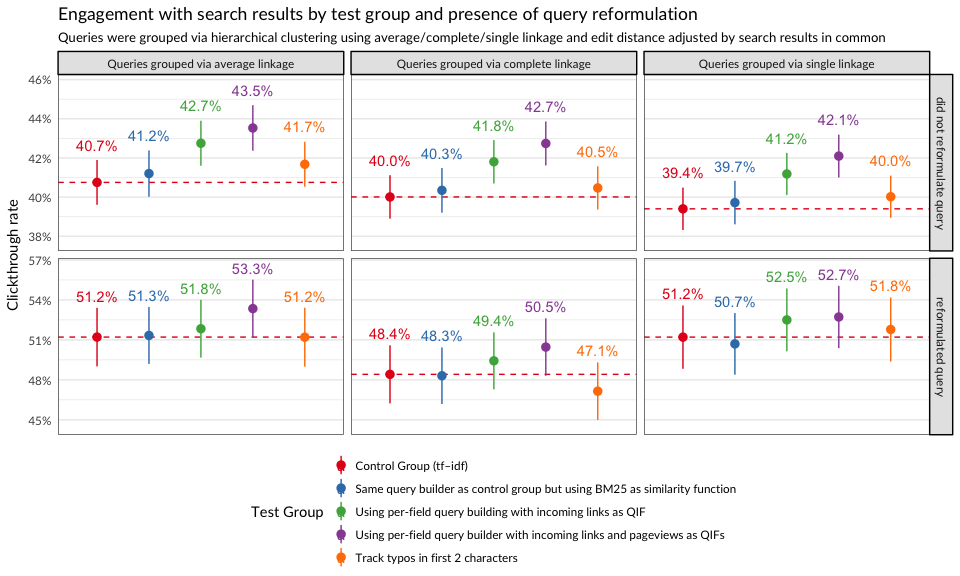
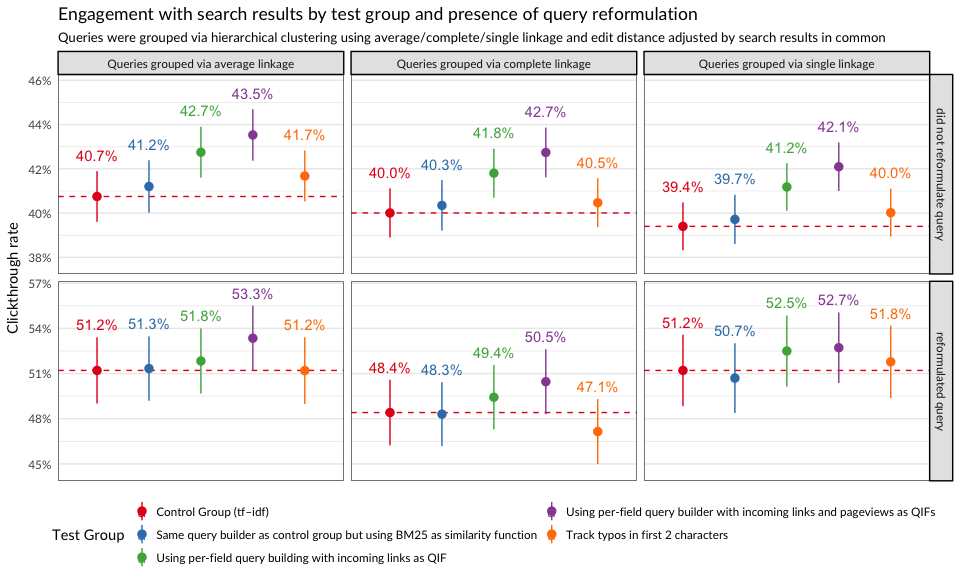
Almost first draft

diff --git a/docs/index.html b/docs/index.html
@@ -16,7 +16,7 @@
 <meta name="author" content="Deb Tankersley (Product Management)" />
 <meta name="author" content="Chelsy Xie (Review)" />
 
-<meta name="date" content="2016-09-27" />
+<meta name="date" content="2016-09-29" />
 
 <title>A/B Test of BM25 Search Ranking</title>
 
@@ -273,14 +273,14 @@ div.tocify {
 
 
 <h1 class="title toc-ignore">A/B Test of BM25 Search Ranking</h1>
-<h3 class="subtitle"><em>Pre-first Draft</em></h3>
+<h3 class="subtitle"><em>Almost First Draft</em></h3>
 <h4 class="author"><em><a href = 'https://meta.wikimedia.org/wiki/User:EBernhardson_(WMF)'>Erik Bernhardson</a> (Engineering)</em></h4>
 <h4 class="author"><em><a href = 'https://www.mediawiki.org/wiki/User:DCausse_(WMF)'>David Causse</a> (Engineering)</em></h4>
 <h4 class="author"><em><a href = 'https://meta.wikimedia.org/wiki/User:TJones_(WMF)'>Trey Jones</a> (Engineering &amp; Review)</em></h4>
 <h4 class="author"><em><a href = 'https://meta.wikimedia.org/wiki/User:MPopov_(WMF)'>Mikhail Popov</a> (Analysis &amp; Report)</em></h4>
 <h4 class="author"><em><a href = 'https://meta.wikimedia.org/wiki/User:DTankersley_(WMF)'>Deb Tankersley</a> (Product Management)</em></h4>
 <h4 class="author"><em><a href = 'https://meta.wikimedia.org/wiki/User:CXie_(WMF)'>Chelsy Xie</a> (Review)</em></h4>
-<h4 class="date"><em>27 September 2016</em></h4>
+<h4 class="date"><em>29 September 2016</em></h4>
 
 </div>
 
@@ -318,11 +318,32 @@ $(function() {
 <span class="co"># extrafont::font_import(&quot;~/Downloads/Lato2OFL&quot;)</span></code></pre></div>
 <div id="executive-summary" class="section level2">
 <h2>Executive Summary</h2>
-<p>…</p>
+<p>In order to improve the relevancy of search results, Discovery’s Search team has decided to test a new document ranking method called BM25, which would replace the term frequency–inverse document frequency (tf–idf) method that is currently used. We saw the following results from our analysis:</p>
+<dl>
+<dt>Same query builder as control group but using BM25 as similarity function</dt>
+<dd>For searches made by users in this group, we use the same query builder as we use for the control group but we switched the similarity function to BM25 and employ a weighted sum for the incoming links query independant factor (QIF). Users in this group were less likely to click on the 1st search result and instead more likely to click on the second search result. They were also more likely to reformulate their query. With regards to zero results rate (ZRR), PaulScore, and engagement, users in this group were very similar to users in the control group.
+</dd>
+<dt>Using per-field query building with incoming links as QIF</dt>
+<dd>For searches made by users in this group, we use BM25 similarity and switch to a per-field query builder using only incoming links as a query independant factor. This group had the second-highest PaulScores and engagement, both in searches where the user reformulated their query and in searches without query reformulation. Users in this group were more likely to click on the first search result than users in the control group.
+</dd>
+<dt>Using per-field query builder with incoming links and pageviews as QIFs</dt>
+<dd>Similar to the group described above but we added pageviews as an additional query independent factor for searches made by users in this group. This group had the highest PaulScores and engagement, both in searches where the user reformulated their query and in searches without query reformulation. Users in this group were a lot more likely to click on the first search result than users in the control group.
+</dd>
+<dt>Track typos in first 2 characters</dt>
+<dd>Similar to the group described above (<em>using per-field query builder with incoming links and pageviews as QIFs</em>), but with an additional field to track typos in the first two characters. This group had the lowest ZRR, and its ZRR was statistically significantly smaller than the control group’s ZRR. This group also had the smallest proportion of searches where the user reformulated their query. Users in this group were a lot more likely to click on the first search result than users in the control group.
+</dd>
+</dl>
+<p>We recommend switching to BM25 ranking with incoming links (and possibly pageviews) as query-independent factors, as this configuration appears to give users results that are more relevant and that they engage with more (especially the first search result).</p>
 </div>
 <div id="background" class="section level2">
 <h2>Background</h2>
-<p>Lorem ipsum dolor sit amet, consectetur adipiscing elit. Etiam interdum luctus velit ac euismod. Donec molestie ipsum at lorem pharetra porttitor. Sed nec finibus nisi, convallis laoreet leo. Curabitur tempus neque porttitor, pulvinar nisi ac, pulvinar augue. Quisque ac venenatis purus. In mollis ligula eget velit laoreet rhoncus. Sed eget nisi tempor quam rhoncus tempus. Nullam eleifend justo tellus, eget tempor lectus sodales id. Quisque quis lorem pharetra, rhoncus libero eget, rhoncus nisl. Duis massa dolor, luctus nec purus sed, euismod condimentum neque. Maecenas laoreet mauris at dui consequat gravida. Curabitur ut consequat lacus. In libero sem, dignissim ac ultricies eget, ornare eu ex. Phasellus sed lacus malesuada, luctus sapien et, gravida risus. Phasellus sed tempor metus. Morbi a dignissim tellus.</p>
+<p>The Discovery department’s mission is to help users discover and access knowledge on Wikipedia and other Wikimedia projects. One of the goals of Discovery’s Search team is to improve the relevance of results when users search Wikipedia and its sister projects. Currently, our search engine uses <a href="https://en.wikipedia.org/wiki/Tf%E2%80%93idf">term frequency–inverse document frequency (tf–idf)</a> to rank articles. To improve the search results, we decided to try a new document-ranking function: <a href="https://en.wikipedia.org/wiki/Okapi_BM25">Okapi BM25</a>. To assess the efficacy of the proposed switch, we ran an A/B test for 10 days and anonymously tracked randomly sampled search sessions. Some users received search results acquired through the tf–idf method, while others received search results acquired through BM25 with various configurations. We are primarily interested in:</p>
+<ul>
+<li><strong>Zero results rate</strong>, the proportion of searches that yielded zero results (smaller is better)</li>
+<li><strong>Users’ engagement</strong> with the search results, measured as the clickthrough rate (bigger is better)</li>
+<li><strong>PaulScore</strong>, a metric of search results’ relevancy that relies on the position of the clicked result[s] (bigger is better)</li>
+<li><strong>Query reformulation</strong> – the less times the user reformulated their query, the better our search engine performs (within reason, as we can only do so much with misspelled words)</li>
+</ul>
 </div>
 <div id="methods" class="section level2">
 <h2>Methods</h2>
@@ -347,7 +368,7 @@ $(function() {
 </dd>
 </dl>
 <p>For all the groups listed above, we include the normalized <a href="https://en.wikipedia.org/wiki/Discounted_cumulative_gain">discounted cumulative gain</a> (<a href="https://en.wikipedia.org/wiki/Discounted_cumulative_gain#Normalized_DCG">nDCG</a>) score – a measure of ranking quality – computed from ranking data collected through <a href="https://www.mediawiki.org/wiki/Wikimedia_Discovery/Search/Glossary#Discernatron">Discernatron</a>, a tool that allows participants to judge the relevance of search results to help the Search team be able to test changes before making them available on-wiki.</p>
-<p>The event logging data was extracted from the database using the following SQL query:</p>
+<p>The full-text (as opposed to auto-complete) searching event logging data was extracted from the database using the following SQL query:</p>
 <div class="sourceCode"><pre class="sourceCode sql"><code class="sourceCode sql"><span class="kw">SELECT</span>
   <span class="kw">LEFT</span>(`timestamp`, <span class="dv">8</span>) <span class="kw">AS</span> <span class="dt">date</span>,
   event_subTest <span class="kw">AS</span> test_group,
@@ -710,7 +731,7 @@ reformulation_counts &lt;-<span class="st"> </span><span class="kw">cbind</span>
                      <span class="dt">breaks =</span> <span class="kw">seq</span>(.<span class="dv">16</span>, .<span class="dv">24</span>, <span class="fl">0.01</span>),
                      <span class="dt">minor_breaks =</span> <span class="kw">seq</span>(.<span class="dv">16</span>, .<span class="dv">24</span>, <span class="fl">0.005</span>),
                      <span class="dt">expand =</span> <span class="kw">c</span>(<span class="fl">0.01</span>, <span class="fl">0.01</span>)) +
-<span class="st">  </span><span class="kw">scale_color_brewer</span>(<span class="st">&quot;Test Group&quot;</span>, <span class="dt">palette =</span> <span class="st">&quot;Set1&quot;</span>, <span class="dt">guide =</span> <span class="kw">guide_legend</span>(<span class="dt">ncol =</span> <span class="dv">1</span>)) +
+<span class="st">  </span><span class="kw">scale_color_brewer</span>(<span class="st">&quot;Test Group&quot;</span>, <span class="dt">palette =</span> <span class="st">&quot;Set1&quot;</span>, <span class="dt">guide =</span> <span class="kw">guide_legend</span>(<span class="dt">ncol =</span> <span class="dv">2</span>)) +
 <span class="st">  </span><span class="kw">facet_wrap</span>(~<span class="st"> </span>linkage, <span class="dt">ncol =</span> <span class="dv">3</span>) +
 <span class="st">  </span><span class="kw">geom_text</span>(<span class="kw">aes</span>(<span class="dt">label =</span> <span class="kw">sprintf</span>(<span class="st">&quot;%.1f%%&quot;</span>, <span class="dv">100</span> *<span class="st"> </span>proportion), <span class="dt">y =</span> upper +<span class="st"> </span><span class="fl">0.005</span>, <span class="dt">vjust =</span> <span class="st">&quot;bottom&quot;</span>),
             <span class="dt">position =</span> <span class="kw">position_dodge</span>(<span class="dt">width =</span> <span class="dv">1</span>)) +
@@ -778,7 +799,7 @@ paulscores &lt;-<span class="st"> </span>searches %&gt;%
 <div class="sourceCode"><pre class="sourceCode r"><code class="sourceCode r">paulscores %&gt;%
 <span class="st">  </span><span class="kw">ggplot</span>(<span class="kw">aes</span>(<span class="dt">x =</span> <span class="st">`</span><span class="dt">F value</span><span class="st">`</span>, <span class="dt">y =</span> PaulScore, <span class="dt">color =</span> <span class="st">`</span><span class="dt">test group</span><span class="st">`</span>)) +
 <span class="st">  </span><span class="kw">geom_pointrange</span>(<span class="kw">aes</span>(<span class="dt">ymin =</span> Lower, <span class="dt">ymax =</span> Upper), <span class="dt">position =</span> <span class="kw">position_dodge</span>(<span class="dt">width =</span> <span class="fl">0.7</span>)) +
-<span class="st">  </span><span class="kw">scale_color_brewer</span>(<span class="st">&quot;Test Group&quot;</span>, <span class="dt">palette =</span> <span class="st">&quot;Set1&quot;</span>, <span class="dt">guide =</span> <span class="kw">guide_legend</span>(<span class="dt">ncol =</span> <span class="dv">1</span>)) +
+<span class="st">  </span><span class="kw">scale_color_brewer</span>(<span class="st">&quot;Test Group&quot;</span>, <span class="dt">palette =</span> <span class="st">&quot;Set1&quot;</span>, <span class="dt">guide =</span> <span class="kw">guide_legend</span>(<span class="dt">ncol =</span> <span class="dv">2</span>)) +
 <span class="st">  </span><span class="kw">scale_y_continuous</span>(<span class="dt">limits =</span> <span class="kw">c</span>(<span class="fl">0.2</span>, <span class="fl">0.35</span>)) +
 <span class="st">  </span><span class="kw">labs</span>(<span class="dt">x =</span> <span class="ot">NULL</span>, <span class="dt">y =</span> <span class="st">&quot;PaulScore(F)&quot;</span>,
        <span class="dt">title =</span> <span class="st">&quot;PaulScore(F) by test group and value of F&quot;</span>,
@@ -829,7 +850,7 @@ engagement &lt;-<span class="st"> </span><span class="kw">cbind</span>(
              <span class="dt">data =</span> <span class="kw">filter</span>(engagement, <span class="st">`</span><span class="dt">test group</span><span class="st">`</span> ==<span class="st"> &quot;Control Group (tf–idf)&quot;</span>)) +
 <span class="st">  </span><span class="kw">geom_pointrange</span>(<span class="kw">aes</span>(<span class="dt">ymin =</span> lower, <span class="dt">ymax =</span> upper), <span class="dt">position =</span> <span class="kw">position_dodge</span>(<span class="dt">width =</span> <span class="dv">1</span>)) +
 <span class="st">  </span><span class="kw">facet_grid</span>(reformulated ~<span class="st"> </span>linkage, <span class="dt">scales =</span> <span class="st">&quot;free_y&quot;</span>) +
-<span class="st">  </span><span class="kw">scale_color_brewer</span>(<span class="st">&quot;Test Group&quot;</span>, <span class="dt">palette =</span> <span class="st">&quot;Set1&quot;</span>, <span class="dt">guide =</span> <span class="kw">guide_legend</span>(<span class="dt">ncol =</span> <span class="dv">1</span>)) +
+<span class="st">  </span><span class="kw">scale_color_brewer</span>(<span class="st">&quot;Test Group&quot;</span>, <span class="dt">palette =</span> <span class="st">&quot;Set1&quot;</span>, <span class="dt">guide =</span> <span class="kw">guide_legend</span>(<span class="dt">ncol =</span> <span class="dv">2</span>)) +
 <span class="st">  </span><span class="kw">scale_y_continuous</span>(<span class="dt">labels =</span> scales::<span class="kw">percent_format</span>(), <span class="dt">expand =</span> <span class="kw">c</span>(<span class="fl">0.01</span>, <span class="fl">0.01</span>)) +
 <span class="st">  </span><span class="kw">labs</span>(<span class="dt">x =</span> <span class="ot">NULL</span>, <span class="dt">y =</span> <span class="st">&quot;Clickthrough rate&quot;</span>,
        <span class="dt">title =</span> <span class="st">&quot;Engagement with search results by test group and presence of query reformulation&quot;</span>,
@@ -849,6 +870,52 @@ engagement &lt;-<span class="st"> </span><span class="kw">cbind</span>(
 <p class="caption"><strong>Figure 5</strong>: Clickthrough rates of test groups after splitting searches into those having query reformulations and those without query reformulations.</p>
 </div>
 </div>
+<div id="first-clicked-results-position" class="section level3">
+<h3>First Clicked Result’s Position</h3>
+<p>In Figure 6, we see…</p>
+<div class="sourceCode"><pre class="sourceCode r"><code class="sourceCode r">safe_ordinals &lt;-<span class="st"> </span>function(x) {
+  <span class="kw">return</span>(<span class="kw">vapply</span>(x, toOrdinal::toOrdinal, <span class="st">&quot;&quot;</span>))
+}
+first_clicked &lt;-<span class="st"> </span>searches %&gt;%
+<span class="st">  </span><span class="kw">filter</span>(results ==<span class="st"> &quot;some&quot;</span> &amp;<span class="st"> </span>clickthrough &amp;<span class="st"> </span>!<span class="kw">is.na</span>(<span class="st">`</span><span class="dt">first clicked result&#39;s position</span><span class="st">`</span>)) %&gt;%
+<span class="st">  </span><span class="kw">mutate</span>(<span class="st">`</span><span class="dt">first clicked result&#39;s position</span><span class="st">`</span> =<span class="st"> </span><span class="kw">ifelse</span>(<span class="st">`</span><span class="dt">first clicked result&#39;s position</span><span class="st">`</span> &lt;<span class="st"> </span><span class="dv">4</span>, <span class="kw">safe_ordinals</span>(<span class="st">`</span><span class="dt">first clicked result&#39;s position</span><span class="st">`</span> +<span class="st"> </span><span class="dv">1</span>), <span class="st">&quot;5th or higher&quot;</span>)) %&gt;%
+<span class="st">  </span><span class="kw">group_by</span>(<span class="st">`</span><span class="dt">test group</span><span class="st">`</span>, <span class="st">`</span><span class="dt">first clicked result&#39;s position</span><span class="st">`</span>) %&gt;%
+<span class="st">  </span>tally %&gt;%
+<span class="st">  </span><span class="kw">mutate</span>(<span class="dt">total =</span> <span class="kw">sum</span>(n), <span class="dt">prop =</span> n/total) %&gt;%
+<span class="st">  </span>ungroup
+<span class="kw">set.seed</span>(<span class="dv">0</span>)
+temp &lt;-<span class="st"> </span><span class="kw">as.data.frame</span>(binom:::<span class="kw">binom.bayes</span>(first_clicked$n, <span class="dt">n =</span> first_clicked$total, <span class="dt">tol =</span> .Machine$double.eps^<span class="fl">0.1</span>)[, <span class="kw">c</span>(<span class="st">&quot;mean&quot;</span>, <span class="st">&quot;lower&quot;</span>, <span class="st">&quot;upper&quot;</span>)])
+first_clicked &lt;-<span class="st"> </span><span class="kw">cbind</span>(first_clicked, temp); <span class="kw">rm</span>(temp)</code></pre></div>
+<div class="sourceCode"><pre class="sourceCode r"><code class="sourceCode r">first_clicked %&gt;%
+<span class="st">  </span><span class="kw">ggplot</span>(<span class="kw">aes</span>(<span class="dt">x =</span> <span class="dv">1</span>, <span class="dt">y =</span> mean, <span class="dt">color =</span> <span class="st">`</span><span class="dt">test group</span><span class="st">`</span>)) +
+<span class="st">  </span><span class="kw">geom_hline</span>(
+    <span class="kw">aes</span>(<span class="dt">yintercept =</span> mean), 
+    <span class="dt">linetype =</span> <span class="st">&quot;dashed&quot;</span>, <span class="dt">color =</span> RColorBrewer::<span class="kw">brewer.pal</span>(<span class="dv">3</span>, <span class="st">&quot;Set1&quot;</span>)[<span class="dv">1</span>],
+    <span class="dt">data =</span> <span class="kw">filter</span>(first_clicked, <span class="st">`</span><span class="dt">test group</span><span class="st">`</span> ==<span class="st"> &quot;Control Group (tf–idf)&quot;</span>)
+  ) +
+<span class="st">  </span><span class="kw">geom_pointrange</span>(<span class="kw">aes</span>(<span class="dt">ymin =</span> lower, <span class="dt">ymax =</span> upper), <span class="dt">position =</span> <span class="kw">position_dodge</span>(<span class="dt">width =</span> <span class="dv">1</span>)) +
+<span class="st">  </span><span class="kw">geom_text</span>(<span class="kw">aes</span>(<span class="dt">label =</span> <span class="kw">sprintf</span>(<span class="st">&quot;%.1f&quot;</span>, <span class="dv">100</span> *<span class="st"> </span>prop), <span class="dt">y =</span> upper +<span class="st"> </span><span class="fl">0.0025</span>, <span class="dt">vjust =</span> <span class="st">&quot;bottom&quot;</span>),
+            <span class="dt">position =</span> <span class="kw">position_dodge</span>(<span class="dt">width =</span> <span class="dv">1</span>)) +
+<span class="st">  </span><span class="kw">scale_y_continuous</span>(<span class="dt">labels =</span> scales::<span class="kw">percent_format</span>(),
+                     <span class="dt">expand =</span> <span class="kw">c</span>(<span class="dv">0</span>, <span class="fl">0.005</span>), <span class="dt">breaks =</span> <span class="kw">seq</span>(<span class="dv">0</span>, <span class="dv">1</span>, <span class="fl">0.01</span>)) +
+<span class="st">  </span><span class="kw">scale_color_brewer</span>(<span class="st">&quot;Test Group&quot;</span>, <span class="dt">palette =</span> <span class="st">&quot;Set1&quot;</span>, <span class="dt">guide =</span> <span class="kw">guide_legend</span>(<span class="dt">ncol =</span> <span class="dv">2</span>)) +
+<span class="st">  </span><span class="kw">facet_wrap</span>(~<span class="st"> `</span><span class="dt">first clicked result&#39;s position</span><span class="st">`</span>, <span class="dt">scale =</span> <span class="st">&quot;free_y&quot;</span>, <span class="dt">nrow =</span> <span class="dv">1</span>) +
+<span class="st">  </span><span class="kw">labs</span>(<span class="dt">x =</span> <span class="ot">NULL</span>, <span class="dt">y =</span> <span class="st">&quot;Proportion of searches&quot;</span>,
+       <span class="dt">title =</span> <span class="st">&quot;Position of the first clicked result&quot;</span>,
+       <span class="dt">subtitle =</span> <span class="st">&quot;With 95% credible intervals&quot;</span>) +
+<span class="st">  </span><span class="kw">theme_minimal</span>(<span class="dt">base_family =</span> <span class="st">&quot;Lato&quot;</span>) +
+<span class="st">  </span><span class="kw">theme</span>(<span class="dt">legend.position =</span> <span class="st">&quot;bottom&quot;</span>,
+        <span class="dt">panel.grid.major.x =</span> <span class="kw">element_blank</span>(),
+        <span class="dt">panel.grid.minor.x =</span> <span class="kw">element_blank</span>(),
+        <span class="dt">axis.ticks.x =</span> <span class="kw">element_blank</span>(),
+        <span class="dt">axis.text.x =</span> <span class="kw">element_blank</span>(),
+        <span class="dt">strip.background =</span> <span class="kw">element_rect</span>(<span class="dt">fill =</span> <span class="st">&quot;gray90&quot;</span>),
+        <span class="dt">panel.border =</span> <span class="kw">element_rect</span>(<span class="dt">color =</span> <span class="st">&quot;gray30&quot;</span>, <span class="dt">fill =</span> <span class="ot">NA</span>))</code></pre></div>
+<div class="figure">
+<img src="index_files/figure-html/first_clicked_position_eda-1.png" alt="Figure 6: First clicked result’s position by group." />
+<p class="caption"><strong>Figure 6</strong>: First clicked result’s position by group.</p>
+</div>
+</div>
 </div>
 <div id="references" class="section level2">
 <h2>References</h2>
@@ -856,7 +923,7 @@ engagement &lt;-<span class="st"> </span><span class="kw">cbind</span>(
 <h3>Reading</h3>
 <ol>
 <li id="ref-1">
-<a href = "https://www.mediawiki.org/wiki/Wikimedia_Discovery/Search/Glossary">Discovery’s Glossary</a> on Wikimedia Discovery/Search/Glossary
+<a href = "https://www.mediawiki.org/wiki/Wikimedia_Discovery/Search/Glossary">Wikimedia Discovery/Search/Glossary</a>
 </li>
 </ol>
 </div>
